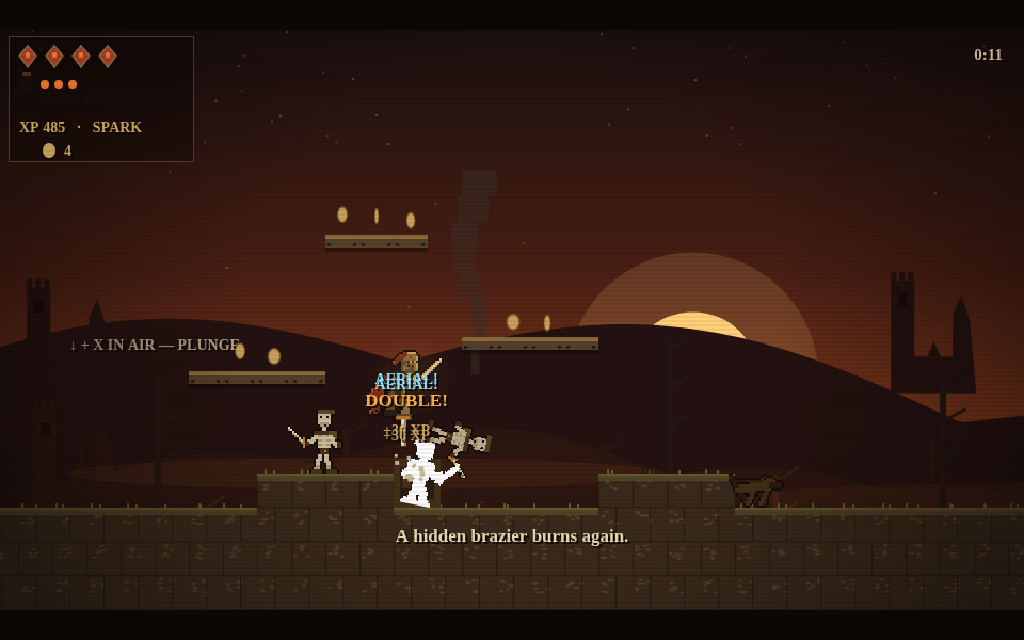
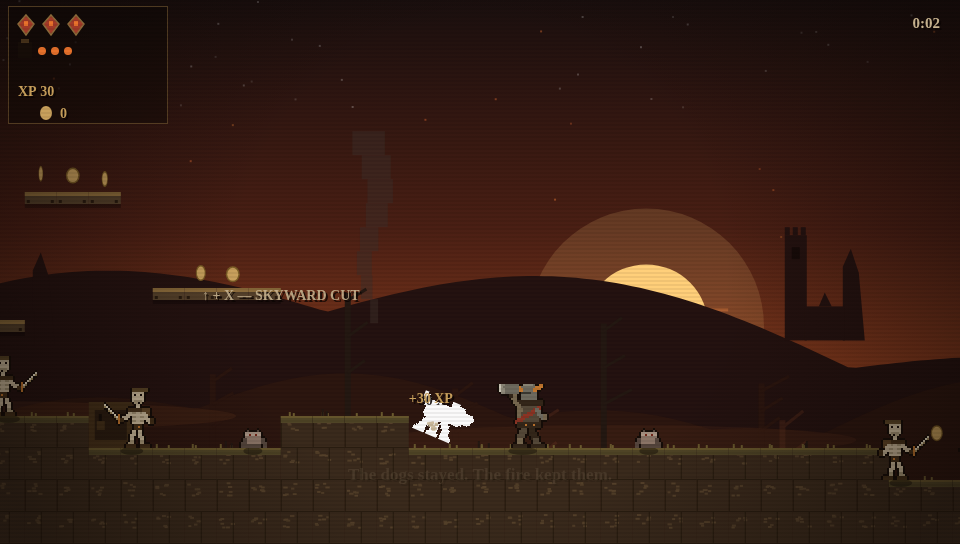
Refresh screenshots and docs for the roster pass and Act II
New title/field/combat shots showing the ash-grey hounds, imps, and
skyward cut controls; two Act II shots (great hall, the Cold Hearth).
README gains the Skyward Cut row, the reworked bestiary notes, an
Act II section, and the adaptive-score description. STORYBOARD gets a
build-status line, the Ash Imp, and the brigand's hurled axe.

Claude-Session: https://claude.ai/code/session_01N7Xsz1urK3Aa7XoMPMqnMK

diff --git a/README.md b/README.md
@@ -25,8 +25,9 @@ python3 -m http.server 8000   # then visit http://localhost:8000
 | Jump   | ↑ / W / Space / Z (hold for height) |
 | Sword  | X / J / K |
 | Rising Strike | hold jump + X on the ground — leap with an upward cut |
+| Skyward Cut | ↑ + X — slash overhead, standing or mid-jump; the answer to anything above you |
 | Plunging Strike | ↓ + X in the air — dive blade-first; bounces you higher than a jump off a kill. Hold ↓ to pogo-chain |
-| Hurl fire | C / L *(once Brand banks the heat — Act II)* |
+| Hurl fire | C / L *(once Brand banks the heat at the Cold Hearth)* |
 | Start  | Enter · Pause P · Music M |
 
 Touch controls appear on mobile.
@@ -40,8 +41,11 @@ is still warm.
 
 ![The Ash Harvest](screenshots/field.png)
 
-- **The horde:** Bone Levies (fodder), Ash Hounds (they charge — jump or cut),
-  Iron Brigands (three hits; bait the telegraphed axe and punish)
+- **The horde:** Bone Levies (fodder), Ash Hounds (big ash-grey farm dogs that
+  spring into a charge — jump or cut), Ash Imps (small, erratic hoppers — worth
+  double a levy if you can hit one), Iron Brigands (three hits; bait the
+  telegraphed swing — and at range they hurl spinning axes you can bat out of
+  the air). No two beasts patrol at quite the same tempo.
 - **The Blade Catches:** find the soldier's fire-steel and one strike in twenty
   turns your foe to ash
 - **Tending:** checkpoints are torches you light — `TENDED.` refills everything
@@ -56,9 +60,31 @@ is still warm.
   embers, a shockwave — first stage of Spark → Kindled → Ablaze
 - **Grade card** at the act's end: time, the fallen, coals spent, best chain → D–S
 
-Acts II (The Cold Hearth) and III (The Hungry Light) — with the Warden's Coal,
-fireballs from the blade, Ember Cultists, Cinder Wraiths, and Selwyn the Warm —
-are speced in [STORYBOARD.md](STORYBOARD.md) and coming next.
+## Act II — The Cold Hearth
+
+The castle the fire walked out of, under a bone moon. Eight screens: the
+gatehouse doors torn *outward*, the roofless great hall, the stripped armory
+with floors that give way underfoot, the spiral stair, and the Cold Hearth
+itself — where the game quietly explains the empty lantern, and Brand drinks
+the Warden's Coal.
+
+![The Great Hall](screenshots/act2-hall.png)
+
+- **Cinder Wraiths** float out of sword reach and swoop — the Skyward Cut and
+  Rising Strike are their answer
+- **Ember Cultists** lob fire from ledges; hurl fire back, or parry the lob
+  out of the air with a slash
+- **The Warden's Coal:** fireballs open Brigands, pierce fodder, and light
+  braziers the sword can't reach; 5 sword hits bank an ember, checkpoints
+  refill the blade
+- **Traps:** collapsing floors, swinging censers over pits
+- The twist is stated exactly once, at the kneeling-stone. Watch the far
+  rampart from the broken east wall.
+
+![The Cold Hearth](screenshots/act2-hearth.png)
+
+Act III (The Hungry Light) — the war camp, the full-roster gauntlet, and
+Selwyn the Warm — is speced in [STORYBOARD.md](STORYBOARD.md) and coming next.
 
 ## Under the hood
 
@@ -67,7 +93,11 @@ are speced in [STORYBOARD.md](STORYBOARD.md) and coming next.
   textured — the hero has 5 poses × 4 transformation stages, all generated
 - Game-feel per a design consult: 4-frame hitstop, 9 on crits, weighted crit odds
   with a pity timer, particle and shake budgets, corpse physics
-- WebAudio synth for everything: somber D-minor loop, crit ring-outs, chain
-  pitch escalation
+- WebAudio synth for everything, with an **adaptive score** (designed with an
+  8/16-bit chiptune consult): the somber D-minor base loop never changes, but
+  each transformation stage adds a layer — a heartbeat at SPARK, a rolling
+  arpeggio at KINDLED, an octave gallop with drums at ABLAZE — and Act II
+  moves the whole song to G minor over a lament bass with a dead chapel bell.
+  Crit ring-outs, chain pitch escalation
 - The story is told in set dressing — look closely at the shrines' lantern
   brackets

diff --git a/STORYBOARD.md b/STORYBOARD.md
@@ -1,7 +1,11 @@
 # EMBERWARD — Storyboard & Build Spec (v2)
 
 *A Tale of Caldermark. Developed across three rounds with a fantasy-writing story
-consultant, plus a game-feel/engagement consult with a game-design specialist.*
+consultant, plus a game-feel/engagement consult with a game-design specialist,
+and an 8/16-bit chiptune consult for the adaptive score.*
+
+**Build status:** Acts I and II are playable end to end. Act III and the Selwyn
+fight are next.
 
 ---
 
@@ -100,8 +104,10 @@ tragedy — it was never filled.** Not revenge: *inheritance withheld.*
 ### Health
 - Hero: 3 hearts → 5 via **Hearthstones** (end of Act I, mid Act III). Heart refills
   are **embers**; healing is literally being warmed.
-- Enemies: Bone Levy 1 hit · Ash Hound 1 · Cinder Wraith 1 · Ember Cultist 2 ·
-  Iron Brigand 3 (telegraphed heavy swing) · Selwyn: 3 phases.
+- Enemies: Bone Levy 1 hit · Ash Hound 1 · Ash Imp 1 (small erratic hopper,
+  premium XP) · Cinder Wraith 1 · Ember Cultist 2 · Iron Brigand 3 (telegraphed
+  heavy swing; hurls a parryable axe at range) · Selwyn: 3 phases.
+  Every spawn rolls its own patrol tempo so packs don't march in lockstep.
 
 ### Fireball — "Embers in the Blade"
 At the Cold Hearth, Brand drinks the Warden's Coal: heat banked in steel. Each
@@ -300,6 +306,7 @@ transformation → kill chains → grade cards.
 ## Enemy lore (bestiary lines)
 
 - **Ash Hound** — *The farm dogs stayed by the burned homes. The fire kept them.*
+- **Ash Imp** — *Something small learned to love the ash.*
 - **Bone Levy** — *The kingdom's levy still musters. For the other side.*
 - **Iron Brigand** — *Sellswords paid in dead men's coin. They will be paid again.*
 - **Cinder Wraith** — *It rose as smoke and never came down.*
